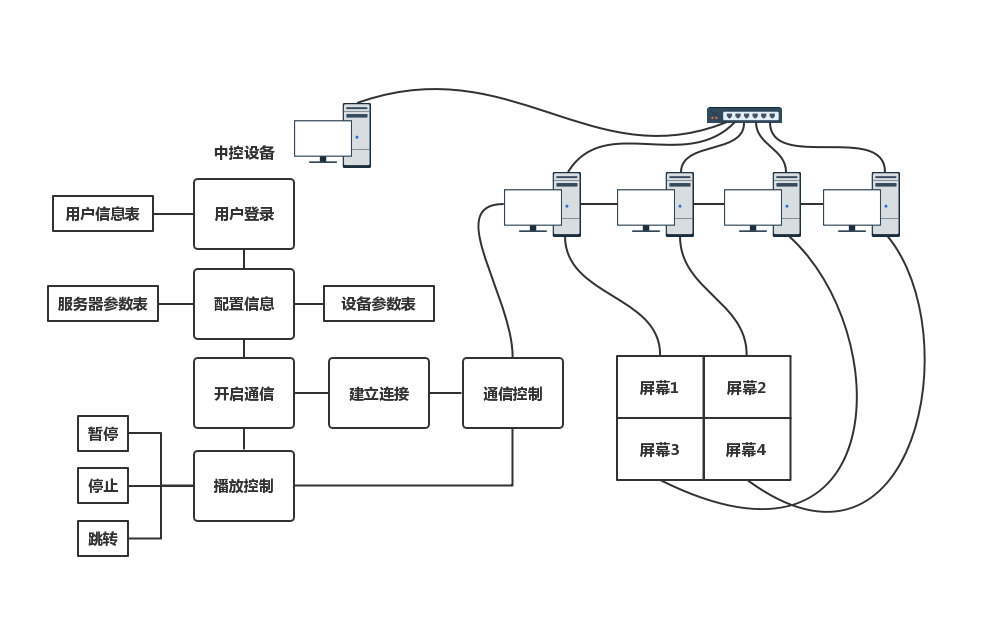
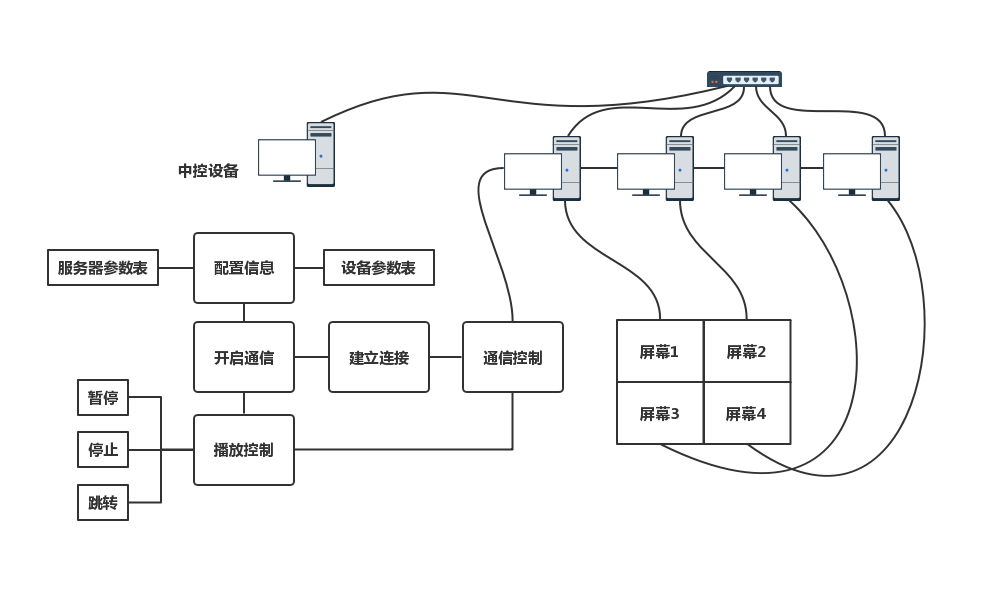
Updates ji-zhu-fang-an/zhong-kong-mo-kuai.md
Auto commit by GitBook Editor

diff --git a/mo-kuai.md b/mo-kuai.md
@@ -4,8 +4,6 @@
 
 * #### 中控模块
 
-> ##### 用户登录
->
 > ##### 系统配置
 >
 > ##### 播放器
